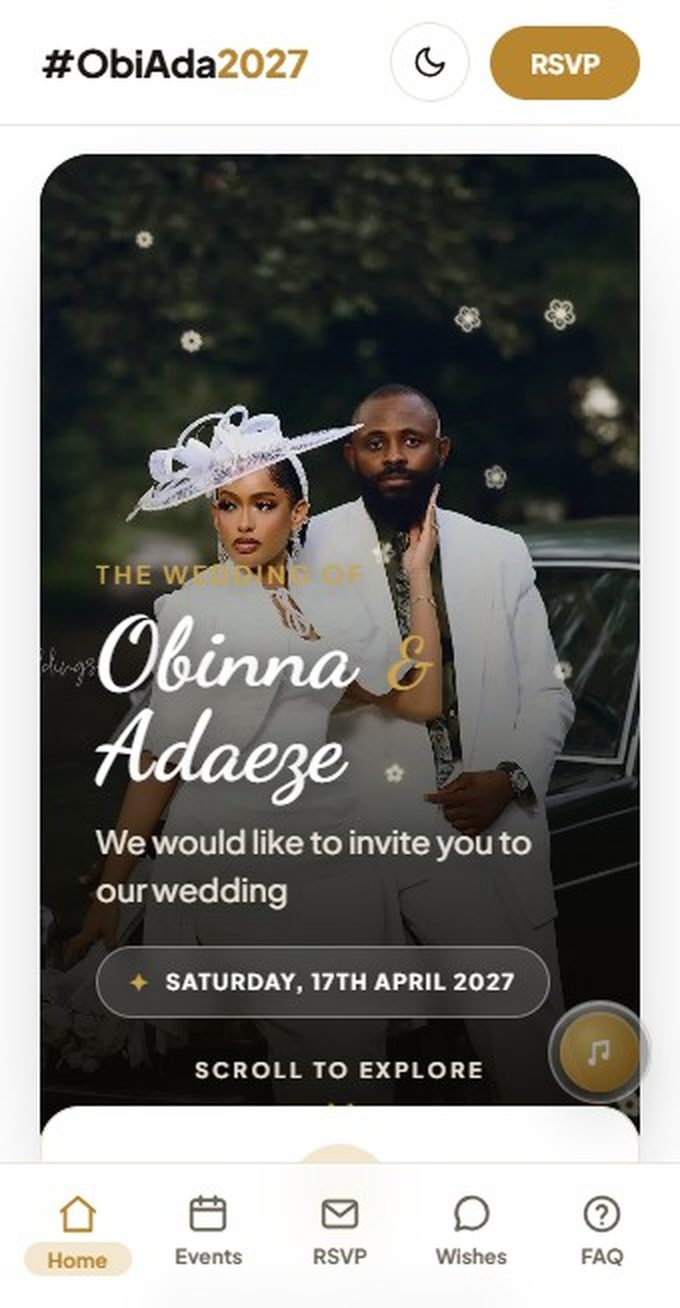
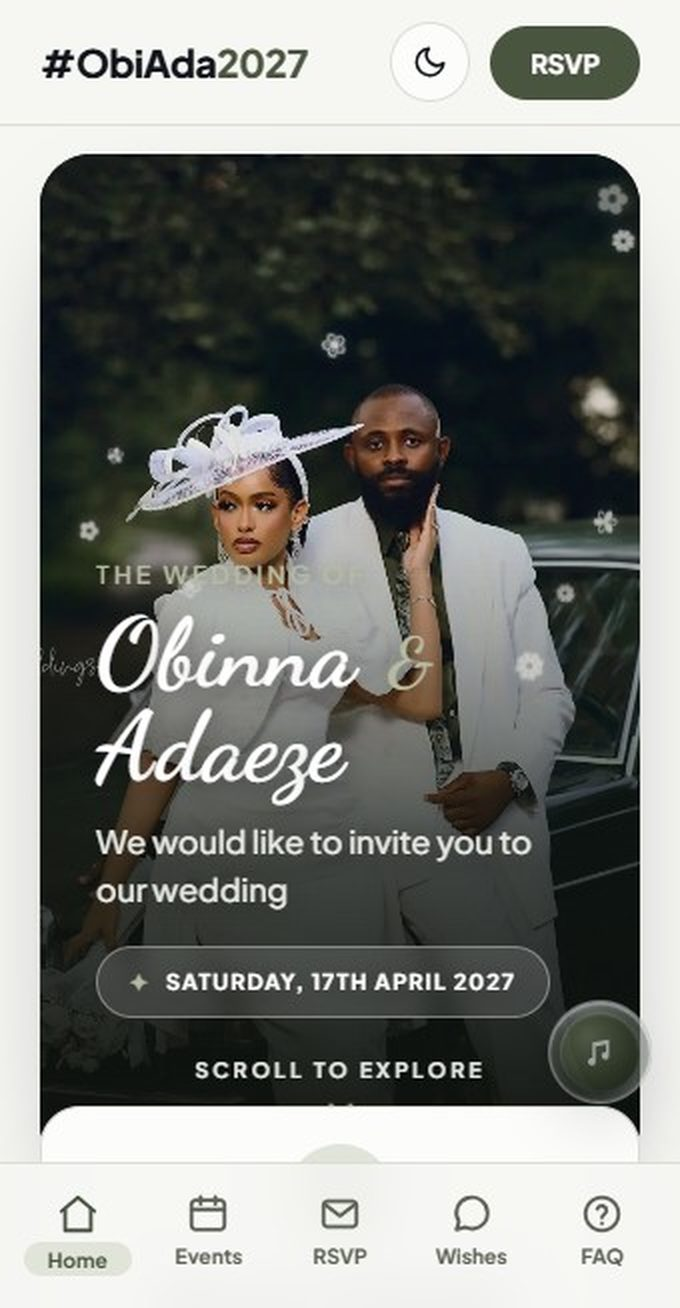
Ivory Classic: recolour to the couple photos' palette
Gold replaced with ivory, forest green, olive, silver and blue-black
sampled from the photos; dress-code swatches and homepage card updated.

diff --git a/samples/ivory-classic/index.html b/samples/ivory-classic/index.html
@@ -8,7 +8,7 @@
 <meta property="og:title" content="Obinna & Adaeze | #ObiAda2027" />
 <meta property="og:description" content="You are invited. Saturday 17th April 2027, Lagos." />
 <meta property="og:image" content="assets/couple1.jpg" />
-<meta name="theme-color" content="#FFFFFF" />
+<meta name="theme-color" content="#F6F6F3" />
 <link rel="icon" type="image/png" href="assets/favicon.png" />
 <link rel="preconnect" href="https://fonts.googleapis.com">
 <link rel="preconnect" href="https://fonts.gstatic.com" crossorigin>
@@ -19,14 +19,16 @@
    deeday.ng homepage design + Emerald & Gold functionality
    ========================================================= */
 :root{
-  --bg:#FFFFFF; --panel:#FAF7F1; --ink:#1A1713; --muted:#6E6557;
-  --line:#ECE6DB; --gold:#B8862F; --gold-soft:#C9A24B; --gold-tint:#F3E8CF; --dark:#15120E;
-  --surface:#FFFFFF; --bar:rgba(255,255,255,.85);
+  /* palette sampled from the couple photos: ivory outfits, forest/moss foliage,
+     olive shirt, silver car trim, blue-black car */
+  --bg:#F6F6F3; --panel:#ECEDE7; --ink:#12161C; --muted:#5C6254;
+  --line:#DCDED4; --gold:#4A5540; --gold-2:#2F3727; --gold-soft:#B4BAA0; --gold-tint:#E1E4D8; --dark:#1E251C;
+  --surface:#FCFCFA; --bar:rgba(246,246,243,.85);
 }
 :root[data-theme="dark"]{
-  --bg:#121010; --panel:#1C1917; --ink:#F2ECE0; --muted:#A89B88;
-  --line:#2A2521; --gold:#C9A24B; --gold-soft:#D9B36A; --gold-tint:rgba(201,162,75,.16); --dark:#0B0A08;
-  --surface:#1C1917; --bar:rgba(18,16,16,.82);
+  --bg:#0E120E; --panel:#171D16; --ink:#EBEDEB; --muted:#A2A796;
+  --line:#283024; --gold:#A9B092; --gold-2:#C9CDB8; --gold-soft:#C9CDB8; --gold-tint:rgba(169,176,146,.16); --dark:#090C09;
+  --surface:#171D16; --bar:rgba(14,18,14,.82);
 }
 *{box-sizing:border-box;margin:0;padding:0}
 html{scroll-behavior:smooth;overflow-x:clip}
@@ -60,24 +62,24 @@ button{font-family:inherit}
 .intro-head{position:relative;text-align:center;color:#fff}
 .intro-head .k{font-weight:700;font-size:.72rem;letter-spacing:.18em;text-transform:uppercase;color:var(--gold-soft)}
 .intro-head strong{display:block;font-family:"Dancing Script",cursive;font-size:clamp(2.3rem,9vw,3.2rem);line-height:1.15;margin:4px 0}
-.intro-head .d{font-weight:600;letter-spacing:.2em;font-size:.82rem;color:#E9E2D5}
+.intro-head .d{font-weight:600;letter-spacing:.2em;font-size:.82rem;color:#E6E8E2}
 .env{position:relative;width:min(340px,84vw);aspect-ratio:1.45;perspective:1400px}
-.env-back{position:absolute;inset:0;border-radius:18px;background:#EFE6D4;box-shadow:0 30px 70px -30px rgba(0,0,0,.8)}
-.env-letter{position:absolute;left:7%;right:7%;top:8%;bottom:8%;border-radius:12px;background:#FFFDF8;display:flex;flex-direction:column;align-items:center;justify-content:center;text-align:center;color:#1A1713;transition:transform 1s cubic-bezier(.22,1,.36,1);z-index:1}
-.env-letter small{font-size:.62rem;font-weight:700;letter-spacing:.16em;text-transform:uppercase;color:#B8862F}
+.env-back{position:absolute;inset:0;border-radius:18px;background:#E4E5DF;box-shadow:0 30px 70px -30px rgba(0,0,0,.8)}
+.env-letter{position:absolute;left:7%;right:7%;top:8%;bottom:8%;border-radius:12px;background:#FCFCFA;display:flex;flex-direction:column;align-items:center;justify-content:center;text-align:center;color:#12161C;transition:transform 1s cubic-bezier(.22,1,.36,1);z-index:1}
+.env-letter small{font-size:.62rem;font-weight:700;letter-spacing:.16em;text-transform:uppercase;color:#4A5540}
 .env-letter span{font-family:"Dancing Script",cursive;font-weight:700;font-size:1.8rem;line-height:1.1}
 .env-pocket{position:absolute;inset:0;border-radius:18px;overflow:hidden;z-index:2;pointer-events:none}
 .env-pocket::before,.env-pocket::after{content:"";position:absolute;inset:0}
-.env-pocket::before{background:#F7F0E2;clip-path:polygon(0 0,50% 56%,100% 0,100% 100%,0 100%)}
+.env-pocket::before{background:#EEEEEA;clip-path:polygon(0 0,50% 56%,100% 0,100% 100%,0 100%)}
 .env-pocket::after{background:linear-gradient(to top,rgba(0,0,0,.05),transparent 60%);clip-path:polygon(0 100%,50% 50%,100% 100%)}
 .env-flap{position:absolute;left:0;right:0;top:0;height:62%;z-index:3;transform-origin:top center;transition:transform .9s cubic-bezier(.6,0,.3,1),z-index 0s .45s}
-.env-flap::before{content:"";position:absolute;inset:0;background:#FBF6EC;clip-path:polygon(0 0,100% 0,50% 100%);border-radius:18px 18px 0 0;filter:drop-shadow(0 4px 6px rgba(0,0,0,.15))}
-.seal{position:absolute;left:50%;top:62%;transform:translate(-50%,-50%);z-index:4;width:78px;height:78px;border-radius:50%;border:none;cursor:pointer;background:radial-gradient(circle at 35% 30%,#E7C77B,#B8862F 55%,#8A6220);box-shadow:0 8px 22px -6px rgba(0,0,0,.6),inset 0 2px 3px rgba(255,255,255,.45),inset 0 -3px 6px rgba(0,0,0,.25);display:flex;align-items:center;justify-content:center;color:#FFF7E6;font-family:"Dancing Script",cursive;font-weight:700;font-size:1.65rem;transition:transform .5s cubic-bezier(.34,1.4,.5,1),opacity .4s ease}
-.seal::before{content:"";position:absolute;inset:7px;border-radius:50%;border:1.5px dashed rgba(255,247,230,.55)}
-.seal::after{content:"";position:absolute;inset:-8px;border-radius:50%;border:2px solid rgba(201,162,75,.6);animation:sealPulse 2s ease-out infinite}
+.env-flap::before{content:"";position:absolute;inset:0;background:#F6F6F3;clip-path:polygon(0 0,100% 0,50% 100%);border-radius:18px 18px 0 0;filter:drop-shadow(0 4px 6px rgba(0,0,0,.15))}
+.seal{position:absolute;left:50%;top:62%;transform:translate(-50%,-50%);z-index:4;width:78px;height:78px;border-radius:50%;border:none;cursor:pointer;background:radial-gradient(circle at 35% 30%,#7C8768,#3F4935 55%,#1E251C);box-shadow:0 8px 22px -6px rgba(0,0,0,.6),inset 0 2px 3px rgba(255,255,255,.45),inset 0 -3px 6px rgba(0,0,0,.25);display:flex;align-items:center;justify-content:center;color:#F1F0EC;font-family:"Dancing Script",cursive;font-weight:700;font-size:1.65rem;transition:transform .5s cubic-bezier(.34,1.4,.5,1),opacity .4s ease}
+.seal::before{content:"";position:absolute;inset:7px;border-radius:50%;border:1.5px dashed rgba(241,240,236,.5)}
+.seal::after{content:"";position:absolute;inset:-8px;border-radius:50%;border:2px solid rgba(180,186,160,.6);animation:sealPulse 2s ease-out infinite}
 @keyframes sealPulse{0%{transform:scale(.9);opacity:1}100%{transform:scale(1.35);opacity:0}}
 .seal:hover{transform:translate(-50%,-50%) scale(1.06)}
-.touch{position:relative;color:#E9E2D5;font-weight:600;font-size:.84rem;letter-spacing:.12em;text-transform:uppercase;animation:touchFade 1.8s ease-in-out infinite}
+.touch{position:relative;color:#E6E8E2;font-weight:600;font-size:.84rem;letter-spacing:.12em;text-transform:uppercase;animation:touchFade 1.8s ease-in-out infinite}
 @keyframes touchFade{50%{opacity:.4}}
 .intro.opening .seal{transform:translate(-50%,-50%) scale(.2) rotate(40deg);opacity:0}
 .intro.opening .seal::after{animation:none;opacity:0}
@@ -98,7 +100,7 @@ button{font-family:inherit}
 .lg.show{opacity:1;pointer-events:auto;transform:translate(-50%,0) scale(1)}
 .lg.docked{z-index:80;left:calc(100% - 14px);top:calc(100% - 154px);transform:translate(-100%,0) scale(1);width:52px;height:52px;padding:0 5px;opacity:.6}
 .lg.docked:hover,.lg.docked:focus-visible,.lg.docked.peek{opacity:1}
-.lg-disc{position:relative;flex:none;width:40px;height:40px;border-radius:50%;display:flex;align-items:center;justify-content:center;background:radial-gradient(circle at 35% 30%,#E7C77B,#B8862F 60%,#8A6220);box-shadow:inset 0 1px 2px rgba(255,255,255,.5),0 4px 10px -4px rgba(0,0,0,.5)}
+.lg-disc{position:relative;flex:none;width:40px;height:40px;border-radius:50%;display:flex;align-items:center;justify-content:center;background:radial-gradient(circle at 35% 30%,#7C8768,#3F4935 60%,#1E251C);box-shadow:inset 0 1px 2px rgba(255,255,255,.5),0 4px 10px -4px rgba(0,0,0,.5)}
 .lg-disc svg{width:18px;height:18px;fill:#fff}
 .lg-disc .ic-play{display:none}
 .lg.paused .lg-disc .ic-note{display:none}
@@ -125,23 +127,24 @@ button{font-family:inherit}
 .theme-btn svg{width:18px;height:18px;fill:none;stroke:currentColor;stroke-width:2;stroke-linecap:round;stroke-linejoin:round}
 .theme-btn:hover{background:var(--panel);transform:translateY(-1px)}
 .theme-btn .ic-sun{display:none}
+:root[data-theme="dark"] .pill:not(.ghost):not(.wa),:root[data-theme="dark"] .step .n,:root[data-theme="dark"] .tl-dot,:root[data-theme="dark"] .wish-done .ok,:root[data-theme="dark"] .seg button.active:not(.no){color:#12161C}
 :root[data-theme="dark"] .theme-btn .ic-sun{display:block}
 :root[data-theme="dark"] .theme-btn .ic-moon{display:none}
 .pill{display:inline-block;background:var(--gold);color:#fff;font-weight:700;font-size:.82rem;padding:10px 20px;border-radius:40px;transition:transform .2s,background .2s;border:none;cursor:pointer;text-align:center}
-.pill:hover{background:var(--gold-soft);transform:translateY(-1px)}
+.pill:hover{background:var(--gold-2);transform:translateY(-1px)}
 .pill.ghost{background:transparent;color:var(--ink);border:1px solid var(--line)}
 .pill.ghost:hover{background:var(--panel)}
 .pill.wa{background:#25D366} .pill.wa:hover{background:#1faa4f}
 
 /* ---------- hero ---------- */
 .hero{position:relative;margin:14px auto 0;max-width:1040px;padding:0 20px}
-.hero-card{position:relative;border-radius:26px;overflow:hidden;min-height:clamp(500px,78vh,660px);display:flex;align-items:flex-end;box-shadow:0 24px 60px -30px rgba(0,0,0,.5);background:#0d0b09}
+.hero-card{position:relative;border-radius:26px;overflow:hidden;min-height:clamp(500px,78vh,660px);display:flex;align-items:flex-end;box-shadow:0 24px 60px -30px rgba(0,0,0,.5);background:#0E120E}
 .hero-img{position:absolute;inset:0;width:100%;height:100%;object-fit:cover;object-position:50% 28%;transform:scale(1.08);transition:transform 6s ease}
 body.opened .hero-img{transform:scale(1)}
-.hero-grad{position:absolute;inset:0;background:linear-gradient(to top,rgba(10,8,4,.95) 6%,rgba(10,8,4,.78) 30%,rgba(10,8,4,.35) 52%,rgba(10,8,4,.05) 72%)}
+.hero-grad{position:absolute;inset:0;background:linear-gradient(to top,rgba(14,19,14,.95) 6%,rgba(14,19,14,.78) 30%,rgba(14,19,14,.35) 52%,rgba(14,19,14,.05) 72%)}
 .hero-inner{text-shadow:0 2px 14px rgba(0,0,0,.45)}
 .petals{position:absolute;inset:0;overflow:hidden;pointer-events:none}
-.petal{position:absolute;top:-30px;color:rgba(255,248,232,.85);font-size:14px;animation:fall linear infinite;text-shadow:0 0 6px rgba(201,162,75,.5)}
+.petal{position:absolute;top:-30px;color:rgba(241,240,236,.85);font-size:14px;animation:fall linear infinite;text-shadow:0 0 6px rgba(180,186,160,.5)}
 @keyframes fall{0%{transform:translate(0,0) rotate(0);opacity:0}10%{opacity:1}100%{transform:translate(60px,110vh) rotate(320deg);opacity:0}}
 .hero-inner{position:relative;padding:34px 28px 78px;color:#fff;width:100%}
 .hero-eyebrow{font-weight:600;font-size:.78rem;letter-spacing:.16em;text-transform:uppercase;color:var(--gold-soft);margin-bottom:6px}
@@ -150,13 +153,13 @@ body.opened .hero-img{transform:scale(1)}
 .hero-names .amp{color:var(--gold-soft);font-size:.7em;display:inline-block;margin:0 .1em}
 .hero-names .ch{display:inline-block;opacity:0;transform:translateY(18px);transition:opacity .5s ease,transform .6s cubic-bezier(.2,.7,.2,1)}
 body.opened .hero-names .ch{opacity:1;transform:none}
-.hero-sub{margin-top:12px;font-size:1rem;color:#E9E2D5;font-weight:500;min-height:1.5em}
+.hero-sub{margin-top:12px;font-size:1rem;color:#E6E8E2;font-weight:500;min-height:1.5em}
 .hero-sub .caret{display:inline-block;width:2px;height:1em;background:var(--gold-soft);vertical-align:-2px;margin-left:2px;animation:blink .8s step-end infinite}
 @keyframes blink{50%{opacity:0}}
 .hero-date{display:inline-flex;align-items:center;gap:8px;margin-top:16px;padding:9px 16px;border-radius:40px;background:rgba(255,255,255,.12);border:1px solid rgba(255,255,255,.35);backdrop-filter:blur(6px);-webkit-backdrop-filter:blur(6px);font-weight:700;font-size:clamp(.66rem,3.2vw,.82rem);letter-spacing:.1em;white-space:nowrap}
 .hero-date span{color:var(--gold-soft)}
 .explore{white-space:nowrap}
-.explore{position:absolute;left:50%;bottom:22px;transform:translateX(-50%);background:none;border:none;color:#E9E2D5;font-weight:700;font-size:.66rem;letter-spacing:.2em;text-transform:uppercase;cursor:pointer;display:flex;flex-direction:column;align-items:center;gap:4px;z-index:2}
+.explore{position:absolute;left:50%;bottom:22px;transform:translateX(-50%);background:none;border:none;color:#E6E8E2;font-weight:700;font-size:.66rem;letter-spacing:.2em;text-transform:uppercase;cursor:pointer;display:flex;flex-direction:column;align-items:center;gap:4px;z-index:2}
 .explore svg{width:20px;height:20px;stroke:var(--gold-soft);fill:none;stroke-width:2.4;stroke-linecap:round;stroke-linejoin:round;animation:cueBounce 1.6s ease-in-out infinite}
 
 /* countdown card (homepage cta-card) */
@@ -194,9 +197,9 @@ body.opened .hero-names .ch{opacity:1;transform:none}
 
 /* story (about-grid) */
 .about-grid{display:grid;grid-template-columns:1.3fr 1fr;gap:20px;align-items:stretch}
-.about-card{background:var(--dark);color:#EDE6D8;border-radius:22px;padding:30px 28px;display:flex;flex-direction:column;justify-content:center}
+.about-card{background:var(--dark);color:#E8EAE4;border-radius:22px;padding:30px 28px;display:flex;flex-direction:column;justify-content:center}
 .about-card .q{font-family:"Dancing Script",cursive;font-size:3.4rem;line-height:.6;color:var(--gold-soft)}
-.about-card blockquote{font-size:1.02rem;line-height:1.7;color:#E2D9C6;margin-top:8px}
+.about-card blockquote{font-size:1.02rem;line-height:1.7;color:#DCDFD6;margin-top:8px}
 .about-card cite{display:block;margin-top:14px;font-style:normal;font-weight:700;color:var(--gold-soft);font-size:.86rem;letter-spacing:.06em}
 .about-photo{border-radius:22px;overflow:hidden;min-height:340px} .about-photo img{width:100%;height:100%;object-fit:cover;object-position:50% 30%}
 
@@ -232,12 +235,12 @@ body.opened .hero-names .ch{opacity:1;transform:none}
 .stay a{display:inline-block;margin-top:6px;font-weight:700;font-size:.82rem;color:var(--gold)}
 
 /* dress code */
-.dress{background:var(--dark);color:#EDE6D8;border-radius:22px;padding:30px 24px;text-align:center}
+.dress{background:var(--dark);color:#E8EAE4;border-radius:22px;padding:30px 24px;text-align:center}
 .dress .k{font-weight:700;font-size:.72rem;letter-spacing:.16em;text-transform:uppercase;color:var(--gold-soft)}
 .dress h3{font-weight:800;font-size:1.3rem;color:#fff;margin:6px 0}
-.dress p{color:#C4BAA8;font-size:.92rem;max-width:480px;margin:0 auto}
+.dress p{color:#B3B8A8;font-size:.92rem;max-width:480px;margin:0 auto}
 .swatches{display:flex;flex-wrap:wrap;justify-content:center;gap:18px;margin-top:22px}
-.sw{display:flex;flex-direction:column;align-items:center;gap:8px;font-size:.78rem;font-weight:600;color:#E2D9C6}
+.sw{display:flex;flex-direction:column;align-items:center;gap:8px;font-size:.78rem;font-weight:600;color:#DCDFD6}
 .sw i{width:54px;height:54px;border-radius:50%;border:3px solid rgba(255,255,255,.18);box-shadow:0 8px 18px -8px rgba(0,0,0,.6)}
 
 /* faq */
@@ -252,7 +255,7 @@ body.opened .hero-names .ch{opacity:1;transform:none}
 .qa .a p{padding:0 18px 16px;color:var(--muted);font-size:.9rem}
 
 /* rsvp seal block */
-.rsvp-card{background:var(--surface);border:1px solid var(--gold);border-radius:22px;padding:34px 22px;text-align:center;box-shadow:0 18px 44px -22px rgba(184,134,47,.5)}
+.rsvp-card{background:var(--surface);border:1px solid var(--gold);border-radius:22px;padding:34px 22px;text-align:center;box-shadow:0 18px 44px -22px rgba(30,37,28,.35)}
 .rsvp-card .seal{position:relative;left:auto;top:auto;transform:none;margin:22px auto 14px;width:96px;height:96px;font-size:2rem}
 .rsvp-card .seal:hover{transform:scale(1.06)}
 .rsvp-card .hint{font-weight:700;font-size:.74rem;letter-spacing:.16em;text-transform:uppercase;color:var(--gold)}
@@ -293,9 +296,9 @@ footer.foot .credit a{text-decoration:underline}
 .bottomnav.rsvp-open .navitem[data-action="rsvp"]{color:var(--gold)}
 
 /* ---------- modals ---------- */
-.modal{position:fixed;inset:0;z-index:90;display:none;align-items:center;justify-content:center;padding:18px 18px 104px;background:rgba(10,8,4,0);opacity:0;transition:opacity .4s ease,background .4s ease}
+.modal{position:fixed;inset:0;z-index:90;display:none;align-items:center;justify-content:center;padding:18px 18px 104px;background:rgba(14,19,14,0);opacity:0;transition:opacity .4s ease,background .4s ease}
 .modal.show{display:flex}
-.modal.open{opacity:1;background:rgba(10,8,4,.55);backdrop-filter:blur(3px)}
+.modal.open{opacity:1;background:rgba(14,19,14,.55);backdrop-filter:blur(3px)}
 .modal-card{background:var(--surface);width:100%;max-width:460px;max-height:80vh;overflow:hidden;border-radius:22px;position:relative;display:flex;flex-direction:column;transform:translateY(24px) scale(.96);opacity:0;transition:transform .45s cubic-bezier(.22,1,.36,1),opacity .4s ease}
 .modal.open .modal-card{transform:none;opacity:1}
 .modal-scroll{flex:1 1 auto;min-height:0;overflow-y:auto;overflow-x:hidden;padding:24px 20px}
@@ -310,7 +313,7 @@ footer.foot .credit a{text-decoration:underline}
 .seg{display:flex;gap:4px;background:var(--panel);border:1px solid var(--line);border-radius:30px;padding:4px}
 .seg button{flex:1;padding:11px 6px;border:none;background:none;border-radius:24px;font-weight:700;font-size:.84rem;color:var(--muted);cursor:pointer;transition:background .2s,color .2s}
 .seg button.active{background:var(--gold);color:#fff}
-.seg button.active.no{background:#5c4a40}
+.seg button.active.no{background:#3B3F45}
 .stepper{display:flex;align-items:center;gap:12px}
 .stepper button{width:42px;height:42px;border-radius:50%;border:1px solid var(--line);background:var(--surface);color:var(--ink);font-size:20px;cursor:pointer}
 .stepper output{font-weight:800;font-size:1.2rem;min-width:28px;text-align:center}
@@ -326,20 +329,20 @@ footer.foot .credit a{text-decoration:underline}
 .form-note{font-size:.8rem;color:var(--muted);margin-top:12px;text-align:center}
 
 /* receipt */
-.receipt{background:#FFFDF8;color:#1A1713;border:1px solid #E6D6B4;border-radius:18px;padding:22px 18px;text-align:center;position:relative;overflow:hidden}
-.receipt::before{content:"";position:absolute;inset:6px;border:1px dashed rgba(184,134,47,.45);border-radius:13px;pointer-events:none}
-.receipt .r-k{font-weight:700;font-size:.66rem;letter-spacing:.16em;text-transform:uppercase;color:#B8862F}
+.receipt{background:#FCFCFA;color:#12161C;border:1px solid #CDD1C2;border-radius:18px;padding:22px 18px;text-align:center;position:relative;overflow:hidden}
+.receipt::before{content:"";position:absolute;inset:6px;border:1px dashed rgba(74,85,64,.4);border-radius:13px;pointer-events:none}
+.receipt .r-k{font-weight:700;font-size:.66rem;letter-spacing:.16em;text-transform:uppercase;color:#4A5540}
 .receipt h3{font-weight:800;font-size:1.25rem;margin-top:6px}
-.receipt .r-cert{font-size:.8rem;color:#6E6557;margin-top:4px}
+.receipt .r-cert{font-size:.8rem;color:#5C6254;margin-top:4px}
 .receipt h4{font-family:"Dancing Script",cursive;font-size:2rem;line-height:1.2;margin-top:2px;word-break:break-word}
-.r-div{display:flex;align-items:center;gap:8px;width:140px;margin:10px auto;color:#B8862F;font-size:.7rem}
-.r-div::before,.r-div::after{content:"";flex:1;height:1px;background:rgba(184,134,47,.4)}
+.r-div{display:flex;align-items:center;gap:8px;width:140px;margin:10px auto;color:#4A5540;font-size:.7rem}
+.r-div::before,.r-div::after{content:"";flex:1;height:1px;background:rgba(74,85,64,.35)}
 .receipt dl{display:grid;grid-template-columns:auto 1fr;gap:8px 14px;text-align:left;font-size:.86rem;margin-top:6px}
-.receipt dt{font-size:.64rem;font-weight:700;letter-spacing:.1em;text-transform:uppercase;color:#8a7a62;padding-top:2px}
+.receipt dt{font-size:.64rem;font-weight:700;letter-spacing:.1em;text-transform:uppercase;color:#6E7562;padding-top:2px}
 .receipt dd{font-weight:700;word-break:break-word}
-.receipt dd.yes{color:#2f6b3f} .receipt dd.no{color:#964b4b}
-.receipt .code{display:inline-block;margin-top:14px;font-family:ui-monospace,Menlo,Consolas,monospace;font-weight:700;letter-spacing:.14em;background:#F3E8CF;color:#8A6220;padding:6px 12px;border-radius:8px;font-size:.84rem}
-.receipt .r-note{font-size:.76rem;color:#6E6557;margin-top:12px}
+.receipt dd.yes{color:#3A5A35} .receipt dd.no{color:#964b4b}
+.receipt .code{display:inline-block;margin-top:14px;font-family:ui-monospace,Menlo,Consolas,monospace;font-weight:700;letter-spacing:.14em;background:#E1E4D8;color:#1E251C;padding:6px 12px;border-radius:8px;font-size:.84rem}
+.receipt .r-note{font-size:.76rem;color:#5C6254;margin-top:12px}
 .r-actions{display:flex;gap:8px;margin-top:16px}
 .r-actions .pill{flex:1;padding:13px 10px}
 .r-change{display:block;margin:14px auto 0;background:none;border:none;color:var(--muted);font-weight:600;font-size:.82rem;text-decoration:underline;cursor:pointer}
@@ -352,8 +355,8 @@ footer.foot .credit a{text-decoration:underline}
   .cd{margin:0 auto}
   .fam-row{grid-template-columns:1fr}
   .about-photo{min-height:420px}
-  .swatches{display:grid;grid-template-columns:repeat(4,1fr);gap:8px}
-  .sw{font-size:.68rem;text-align:center} .sw i{width:46px;height:46px}
+  .swatches{display:grid;grid-template-columns:repeat(5,1fr);gap:6px}
+  .sw{font-size:.62rem;text-align:center;line-height:1.25} .sw i{width:42px;height:42px}
 }
 @media(prefers-reduced-motion:reduce){
   *,*::before,*::after{animation-duration:.01ms!important;animation-iteration-count:1!important;transition-duration:.01ms!important}
@@ -682,12 +685,12 @@ const config = {
     { name: "The Wheatbaker", desc: "Boutique hotel in Ikoyi, central to both venues", map: "https://www.google.com/maps/search/?api=1&query=The+Wheatbaker+Ikoyi+Lagos" }
   ],
   dress_title: "Black Tie / Elegant Formal",
-  palette: [ { name: "Ivory", hex: "#F6F1E6" }, { name: "Champagne Gold", hex: "#C9A24B" }, { name: "Sage Green", hex: "#7E8F6A" }, { name: "Classic Black", hex: "#141210" } ],
+  palette: [ { name: "Ivory White", hex: "#EFEFEB" }, { name: "Forest Green", hex: "#2A3324" }, { name: "Sage Olive", hex: "#7C816A" }, { name: "Silver Grey", hex: "#C9C7C6" }, { name: "Midnight Black", hex: "#12161C" } ],
   faqs: [
     { q: "Can I bring a plus one?", a: "Due to venue capacity, only guests named on the invitation can be accommodated. Please check your RSVP details." },
     { q: "Can I bring my children?", a: "Absolutely. Children are warmly welcome to celebrate with us. Please include them in your guest count when you RSVP." },
     { q: "Is there parking at the reception?", a: "Yes, secure parking with protocol and security personnel is available on-site at The Civic Centre." },
-    { q: "What is the dress code?", a: "Black Tie / Elegant Formal in our colour palette: Ivory, Champagne Gold, Sage Green and Classic Black." },
+    { q: "What is the dress code?", a: "Black Tie / Elegant Formal in our colour palette: Ivory White, Forest Green, Sage Olive, Silver Grey and Midnight Black." },
     { q: "When should I RSVP by?", a: "Kindly submit your RSVP on this page on or before 1st March 2027 to ensure proper seating and catering." }
   ],
   meal_options: [ { v: "meat", label: "Assorted Meat & Nigerian Delicacies" }, { v: "fish", label: "Fresh Fish & Seafood Classics" } ],
@@ -974,7 +977,7 @@ function confetti() {
   if (matchMedia("(prefers-reduced-motion: reduce)").matches) return;
   const c = $("#confetti"), ctx = c.getContext("2d"), dpr = Math.min(2, devicePixelRatio || 1);
   c.width = innerWidth * dpr; c.height = innerHeight * dpr; ctx.scale(dpr, dpr);
-  const cols = ["#B8862F", "#E7C77B", "#F6F1E6", "#7E8F6A", "#C9A24B", "#FFFFFF"];
+  const cols = ["#4A5540", "#7C816A", "#F1F0EE", "#C9C7C6", "#1E251C", "#FFFFFF"];
   const ps = Array.from({ length: 140 }, () => ({ x: innerWidth / 2 + (Math.random() - .5) * 80, y: innerHeight * .45, vx: (Math.random() - .5) * 13, vy: -Math.random() * 13 - 4, s: 5 + Math.random() * 6, r: Math.random() * 6, vr: (Math.random() - .5) * .3, c: cols[Math.random() * cols.length | 0] }));
   const t0 = performance.now();
   (function frame(t) {

diff --git a/index.html b/index.html
@@ -446,7 +446,7 @@ function saveOrder(row){
 }
 /* samples = looks only (newest first); price lives in PLANS */
 const TEMPLATES = [
-  {tag:"Ivory Classic", title:"Ivory & Gold", url:"https://deeday-ivory-classic.vercel.app", thumb:"assets/thumb-6.jpg", plan:"Signature", blurb:"Clean ivory and gold with a seal-and-envelope opening, Canon in D, RSVP keepsake receipts and guest wishes."},
+  {tag:"Ivory Classic", title:"Ivory & Forest Green", url:"https://deeday-ivory-classic.vercel.app", thumb:"assets/thumb-6.jpg", plan:"Signature", blurb:"Ivory, forest green and olive drawn from the couple's photos, with a wax-seal opening, Canon in D, RSVP keepsake receipts and guest wishes."},
   {tag:"Black & Gold", title:"Editorial Aso-Ebi", url:"https://deeday-black-gold.vercel.app", thumb:"assets/thumb-5.jpg", plan:"Signature", blurb:"Editorial black-and-gold with a full-bleed photo hero, a modern mail-opening and real aso-ebi energy."},
   {tag:"Luxury Wax Seal", title:"Emerald & Gold", url:"https://deeday-royal-seal.vercel.app", thumb:"assets/thumb-4.jpg", plan:"Signature", blurb:"Emerald-and-gold luxury: a break-the-seal opening and a floral arch hero."},
   {tag:"Golden Flyer", title:"WhatsApp Flyer", url:"https://deeday-golden-flyer.vercel.app", thumb:"assets/thumb-3.jpg", plan:"Signature", blurb:"The viral WhatsApp-flyer look, gold frame, bold and built to be shared."},
